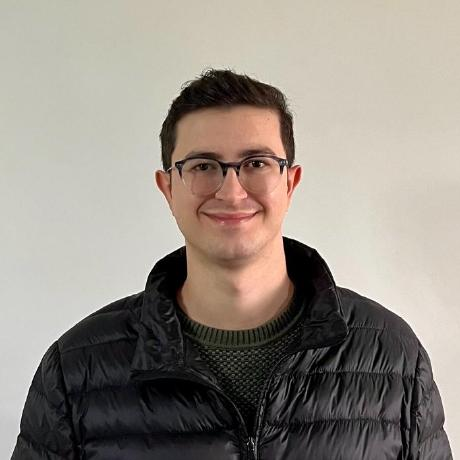
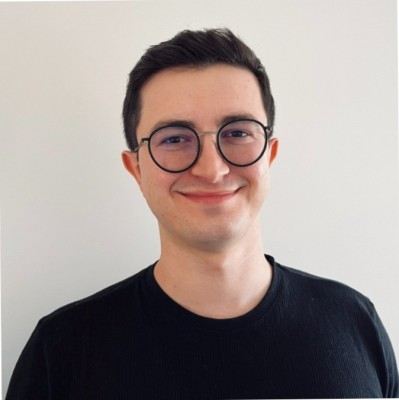
feat: Update profile picture

diff --git a/index.html b/index.html
@@ -34,9 +34,8 @@
     <section id="about" class="about container">
         <h2 class="text-highlighted">About</h2>
         <p>
-            I'm a Software Engineer with Java, Kotlin, and Go skills.
-            I have a strong knowledge of the software development lifecycle, including documentation and automated
-            testing, and I embrace best practices in programming within a DevOps culture.
+            I'm a Software Engineer with Kotlin, Java, and Go skills.
+            I have a strong knowledge of the software development lifecycle, including documentation and automated testing, and I embrace best practices in programming within a DevOps culture.
             <br /><br />
             Education background in Electrical Engineering.
             <br /><br />
@@ -55,7 +54,7 @@
                     </div>
                     <div class="desc">
                         At QuintoAndar, I work as a Senior Software Engineer.
-                        Skills: Java 17, Spring Boot, Go, Terraform, AWS, Redis, Sentry, Grafana.
+                        Skills: Java 17, Spring Boot, Go, Terraform, AWS, PostgreSQL, Redis, Sentry, Grafana.
                     </div>
                 </div>
             </li>
@@ -66,10 +65,8 @@
                         <span class="time-wrapper"><span class="time">2022 - 2023</span></span>
                     </div>
                     <div class="desc">
-                        At fintech PicPay, I worked as a Senior Software Engineer developing new end-to-end features for
-                        the mobile application's chat, such as user spammer control and fraud prevention. I was
-                        responsible for presenting System Design for new solutions following the Mobile-First strategy,
-                        as well as elevating the squad's standards for writing Design Docs and ensuring code quality.
+                        At fintech PicPay, I worked as a Senior Software Engineer developing new end-to-end features for the mobile application's chat, such as user spammer control and fraud prevention.
+                        I was responsible for presenting System Design for new solutions following the Mobile-First strategy, as well as elevating the squad's standards for writing Design Docs and ensuring code quality.
                         Skills: Go, Kotlin, Java 17, Spring Boot, AWS, MongoDB, New Relic, Grafana.
                     </div>
                 </div>
@@ -81,8 +78,7 @@
                         <span class="time-wrapper"><span class="time">2021 - 2021</span></span>
                     </div>
                     <div class="desc">
-                        At Americanas, I worked as a Software Developer in building a Data Catalog system, with the
-                        mission of democratizing access to data within the company.
+                        At Americanas, I worked as a Software Developer in building a Data Catalog system, with the mission of democratizing access to data within the company.
                         Skills: Go, GitLab CI, Datadog, AWS, MongoDB, Google BigQuery.
                     </div>
                 </div>
@@ -95,9 +91,7 @@
                     </div>
                     <div class="desc">
                         Backend development of microservices in Java Spring Boot for banking sector.
-                        Working for Banco BV at Digital Bank Account project, I had the opportunity to work with:
-                        Transfers (Pix, Contacts, TED/TEF), Payments (Boleto, Credit Card), Account Balance, and Bank
-                        Statement.
+                        Working for Banco BV at Digital Bank Account project, I had the opportunity to work with: Transfers (Pix, Contacts, TED/TEF), Payments (Boleto, Credit Card), Account Balance, and Bank Statement.
                         Skills: Java 11, Spring Boot, Microservices, Elasticsearch, Redis, GCP.
                     </div>
                 </div>
@@ -109,10 +103,8 @@
                         <span class="time-wrapper"><span class="time">2017 - 2019</span></span>
                     </div>
                     <div class="desc">
-                        During my time at SIGA-UFPR, I worked as a Full Stack Developer, contributing to the development
-                        of an academic management system for the university's departments and courses, which included
-                        Postgraduate, Undergraduate, and Language Club programs. This experience was truly remarkable,
-                        as UFPR is a prestigious and the oldest university in Brazil.
+                        During my time at SIGA-UFPR, I worked as a Full Stack Developer, contributing to the development of an academic management system for the university's departments and courses, which included Postgraduate, Undergraduate, and Language Club programs.
+                        This experience was truly remarkable, as UFPR is a prestigious and the oldest university in Brazil.
                         Skills: Java, MySQL, Hibernate, Vue.js.
                     </div>
                 </div>
@@ -130,8 +122,7 @@
                         <span class="time-wrapper"><span class="time">2015 - 2020</span></span>
                     </div>
                     <div class="desc">
-                        Undergraduate student majoring in Electrical Engineering with comprehensive knowledge of
-                        Electronics and Telecommunications.
+                        Undergraduate student majoring in Electrical Engineering with comprehensive knowledge of Electronics and Telecommunications.
                         Academic performance coefficient of 0.8705.
                     </div>
                 </div>
